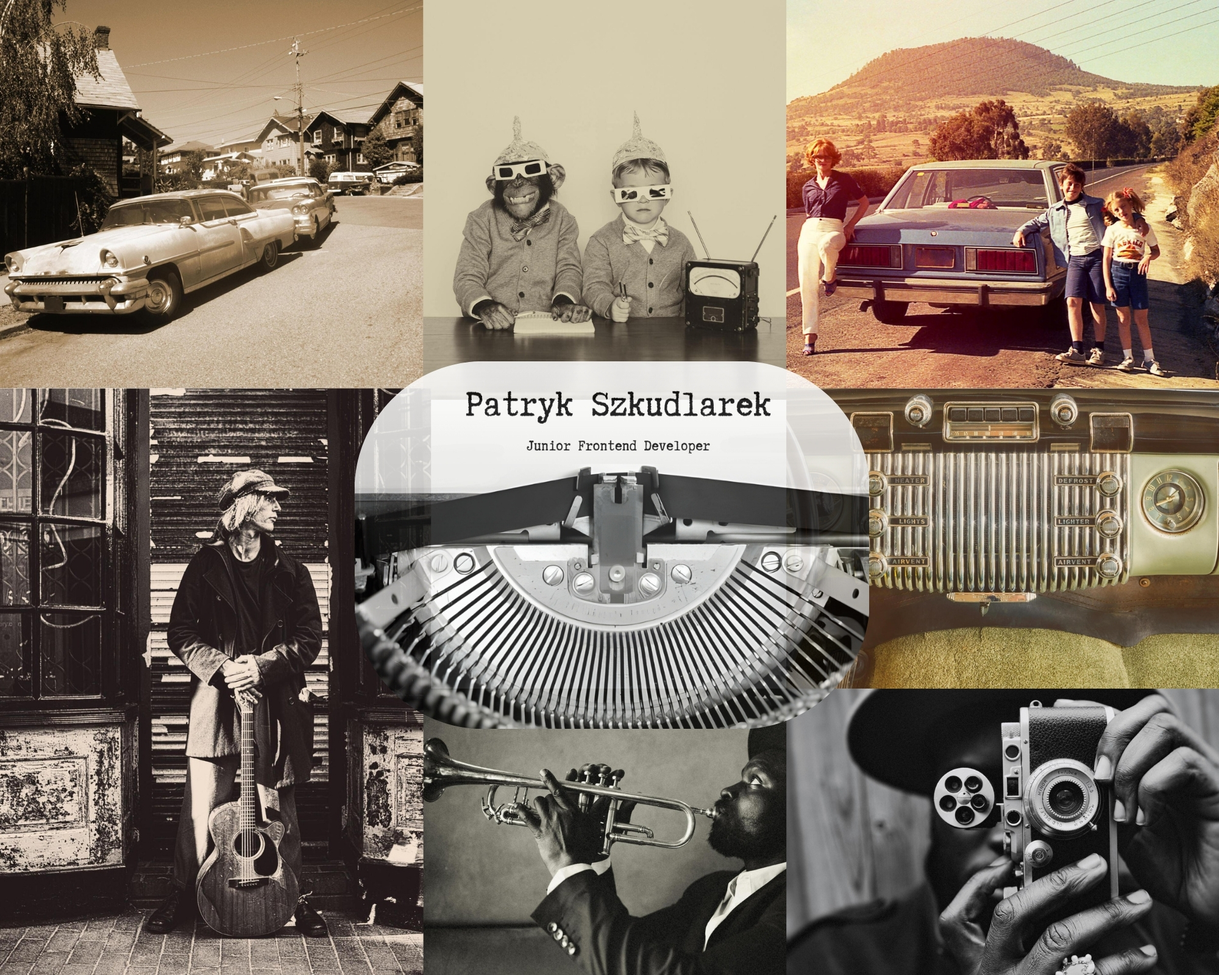
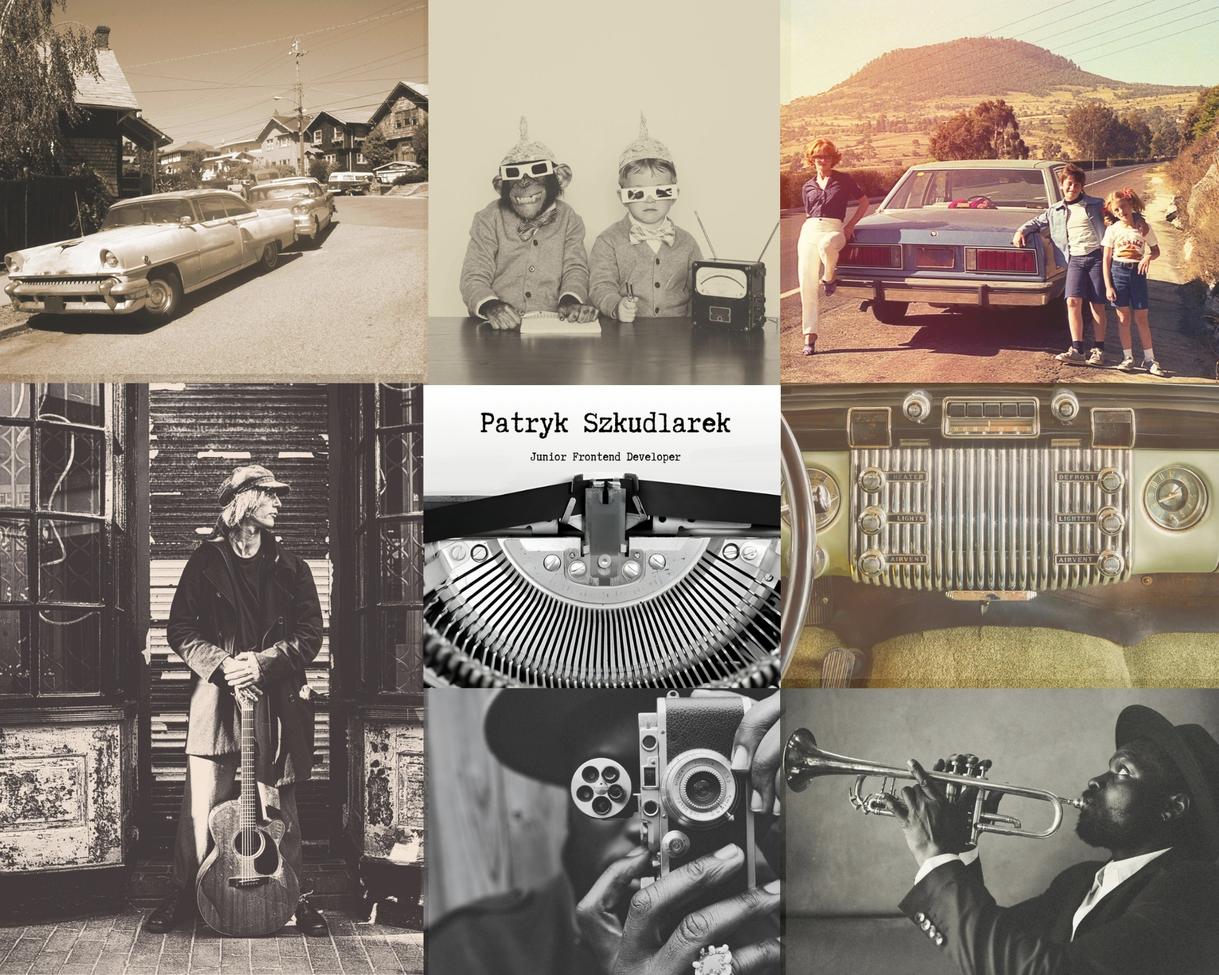
update header

diff --git a/style.css b/style.css
@@ -9,12 +9,13 @@ html {
 }
 
 header {
-  height: 120vh;
   padding: 1rem;
-  background-image: linear-gradient(rgba(0, 0, 0, 0.1), rgba(0, 0, 0, 0.1)),
+  background-image: linear-gradient(rgba(0, 0, 0, 0.2), rgba(0, 0, 0, 0.2)),
     url(img-folder/img-header.jpg);
   background-position: center;
   background-size: cover;
+  overflow: hidden;
+  height: 140vh;
 }
 
 .extr-class {

diff --git a/index.html b/index.html
@@ -37,7 +37,7 @@
     <title>Homepage</title>
   </head>
   <body>
-    <header> <p  > Patryk Szkudlarek</p> <p > Junior Frontend Developer</p> </header>
+    <header> </header>
     <div class="extr-class">
       <h1 class="h1-cls fs-1 mb-3">Visit one of mine pages</h1>
       <div class="container text-center">
